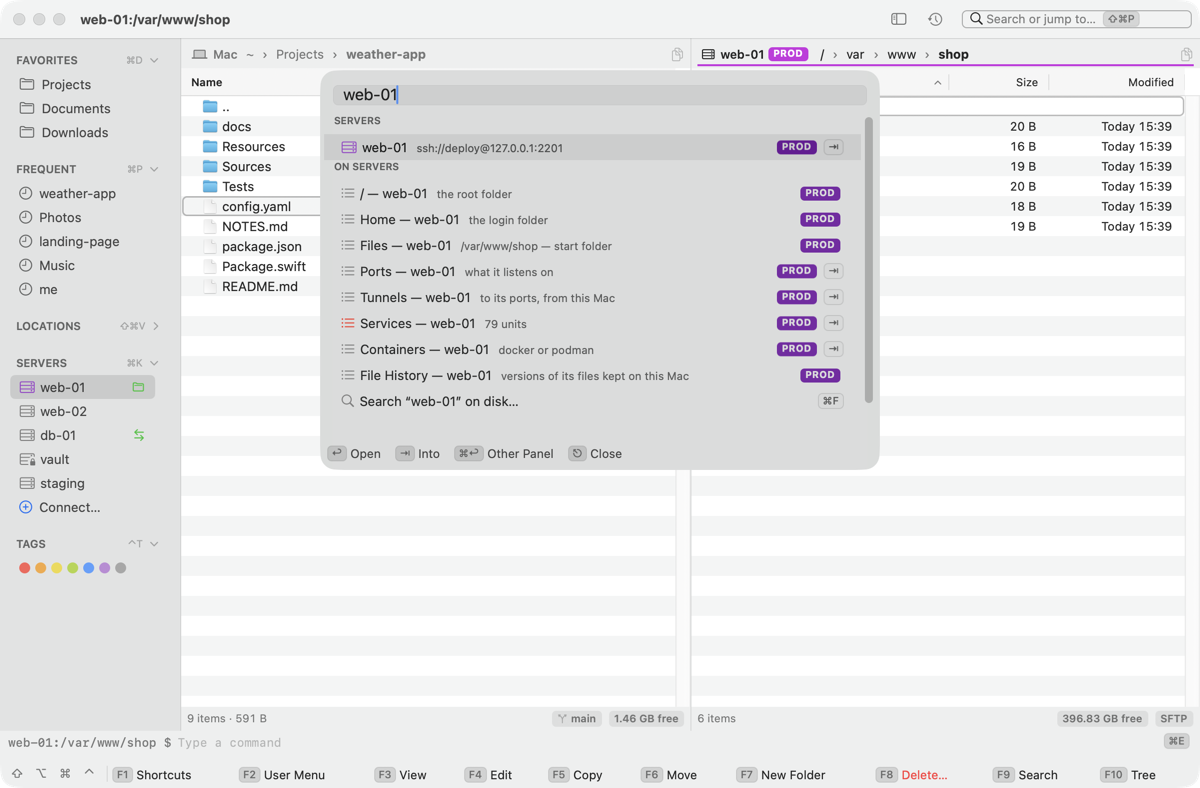
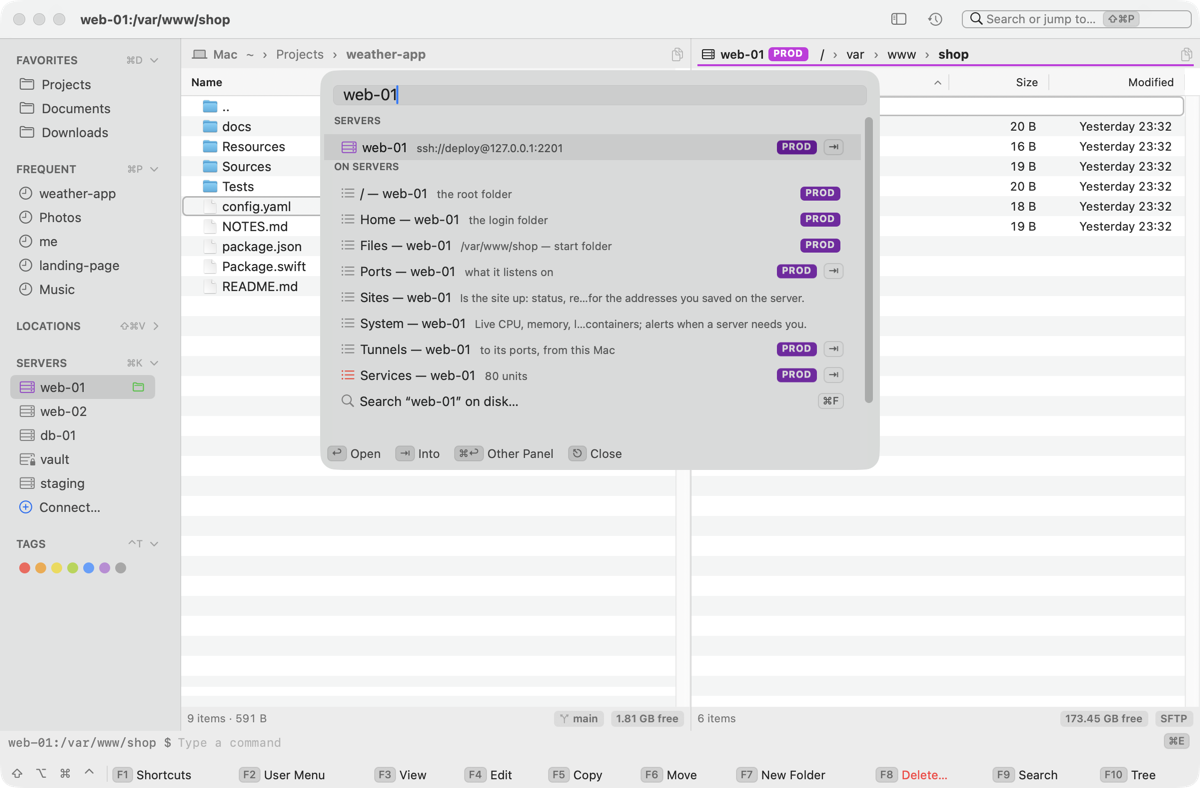
Docs: overview and search shots with the tools' rows
The server's overview and search for web-01 shot again for 2.0: the
overview lists Server Info, System and Sites, search finds Sites and
System. The overview's table gets those rows.

diff --git a/docs/servers.md b/docs/servers.md
@@ -125,11 +125,12 @@ A server's **overview** in a panel lists what's there, as rows that ↩ goes int
 | **Files** | its files in its start folder (only for a server with one) |
 | **Home**, **/** | its files in the login folder, or in `/` |
 | **Services**, **Containers**, **Ports** | [the list in this panel](#in-a-panel), read as it opens |
-| **Firewall**, **Banned IPs** | a [tool's](tools.md) list in this panel, for a server that has ufw or fail2ban; how many rows it had when last read |
+| **Server Info**, **System**, **Firewall**, **Banned IPs** | a [tool's](tools.md) rows in this panel: Server Info's reports; System's processes and Firewall's rules with how many rows the list had when last read. Firewall and Banned IPs show on a server that has ufw or fail2ban |
+| **Sites** | its tab in the [Tools window](tools.md#the-tools-window) |
 | **Tunnels** | its tunnels as a list in this panel, from this Mac: ↩ turns one on or off, ⌘C copies its address, F4 edits, F8 deletes, **＋ New Tunnel…** over the columns ([tunnels](tunnels.md)) |
 | **File History** | the versions of its files kept on this Mac ([file history](server-files.md#file-history)) |
 
-![web-01's overview in a panel: Files, Home, /, then Services with 1 failed and 79 units, Containers, Ports, Tunnels and File History](images/server-overview.png)
+![web-01's overview in a panel: Files, Home, /, then Services with 1 failed and 80 units, Containers, Ports, Tunnels, the tools Server Info, System and Sites, and File History](images/server-overview.png)
 
 Opening it sends nothing to the server, production and locked ones included: no Touch ID, no login, no command. Its counts — `10 units`, `1 failed` (◆), `4 containers`, `6 listening` — are what the lists last read, shown while a connection to the server is up; else `—`, until you open that row. Tunnels says how many are on, from this Mac. The first row that goes to the server asks for Touch ID on a locked one, as any connection does.
 

diff --git a/docs/window.md b/docs/window.md
@@ -110,7 +110,7 @@ Press ⇧⌘P (or F9, ⌥9; from the terminal ⇧⌘P), or click **Search or jum
 - **folders:** Favorites, frequent folders and volumes;
 - **files** in the active panel.
 
-![Search for web-01: the server with its PROD chip, then its overview's rows under On Servers — Files, Ports, Tunnels, Services, Containers, File History — each a ⇥ away](images/search-servers.png)
+![Search for web-01: the server with its PROD chip, then its overview's rows under On Servers — /, Home, Files, Ports, Sites, System, Tunnels, Services](images/search-servers.png)
 
 ↑↓ choose, ↩ runs a command or opens the rest: a folder, a server as a double-click on its sidebar row does (its files), an overview's row in the active panel. ⌘↩ opens a folder, a server's files or an overview's row in the other panel. ⎋ closes. The action bar along the bottom says what the keys do on the highlighted row. The last row searches the disk (⌘F), and says so when nothing else matches.
 
